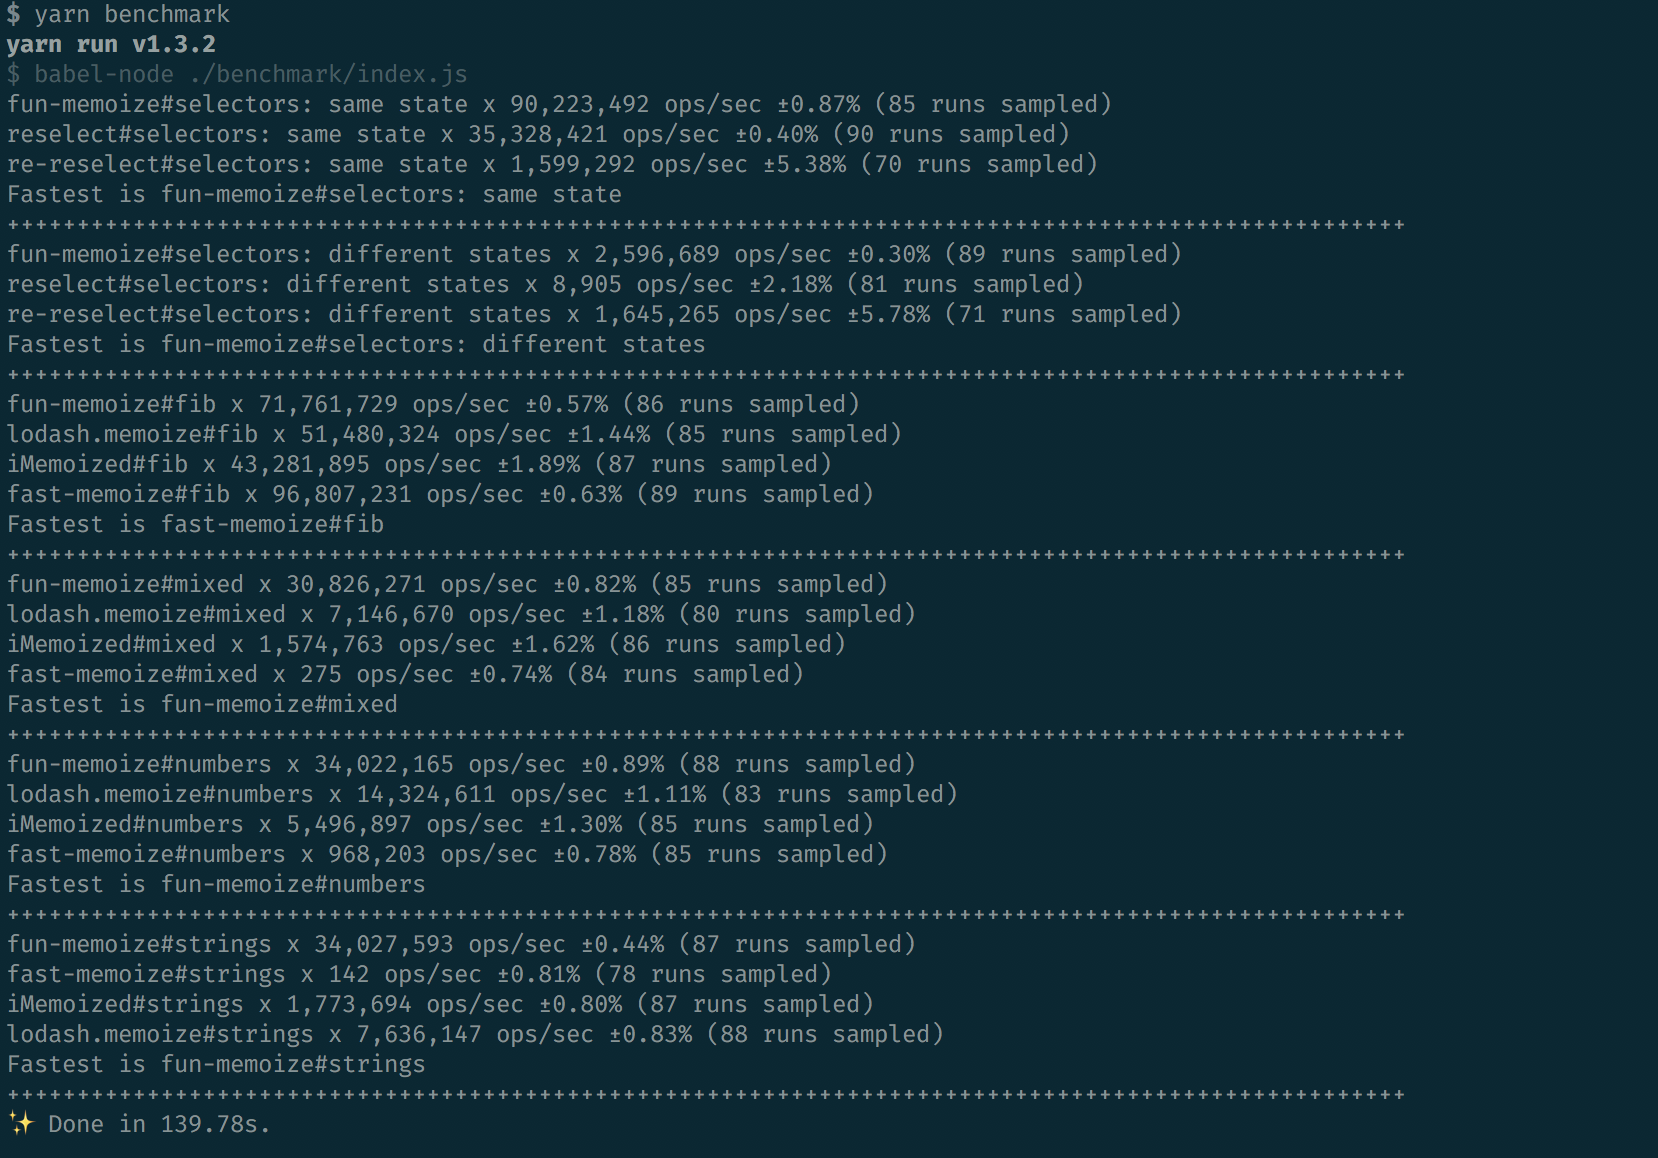
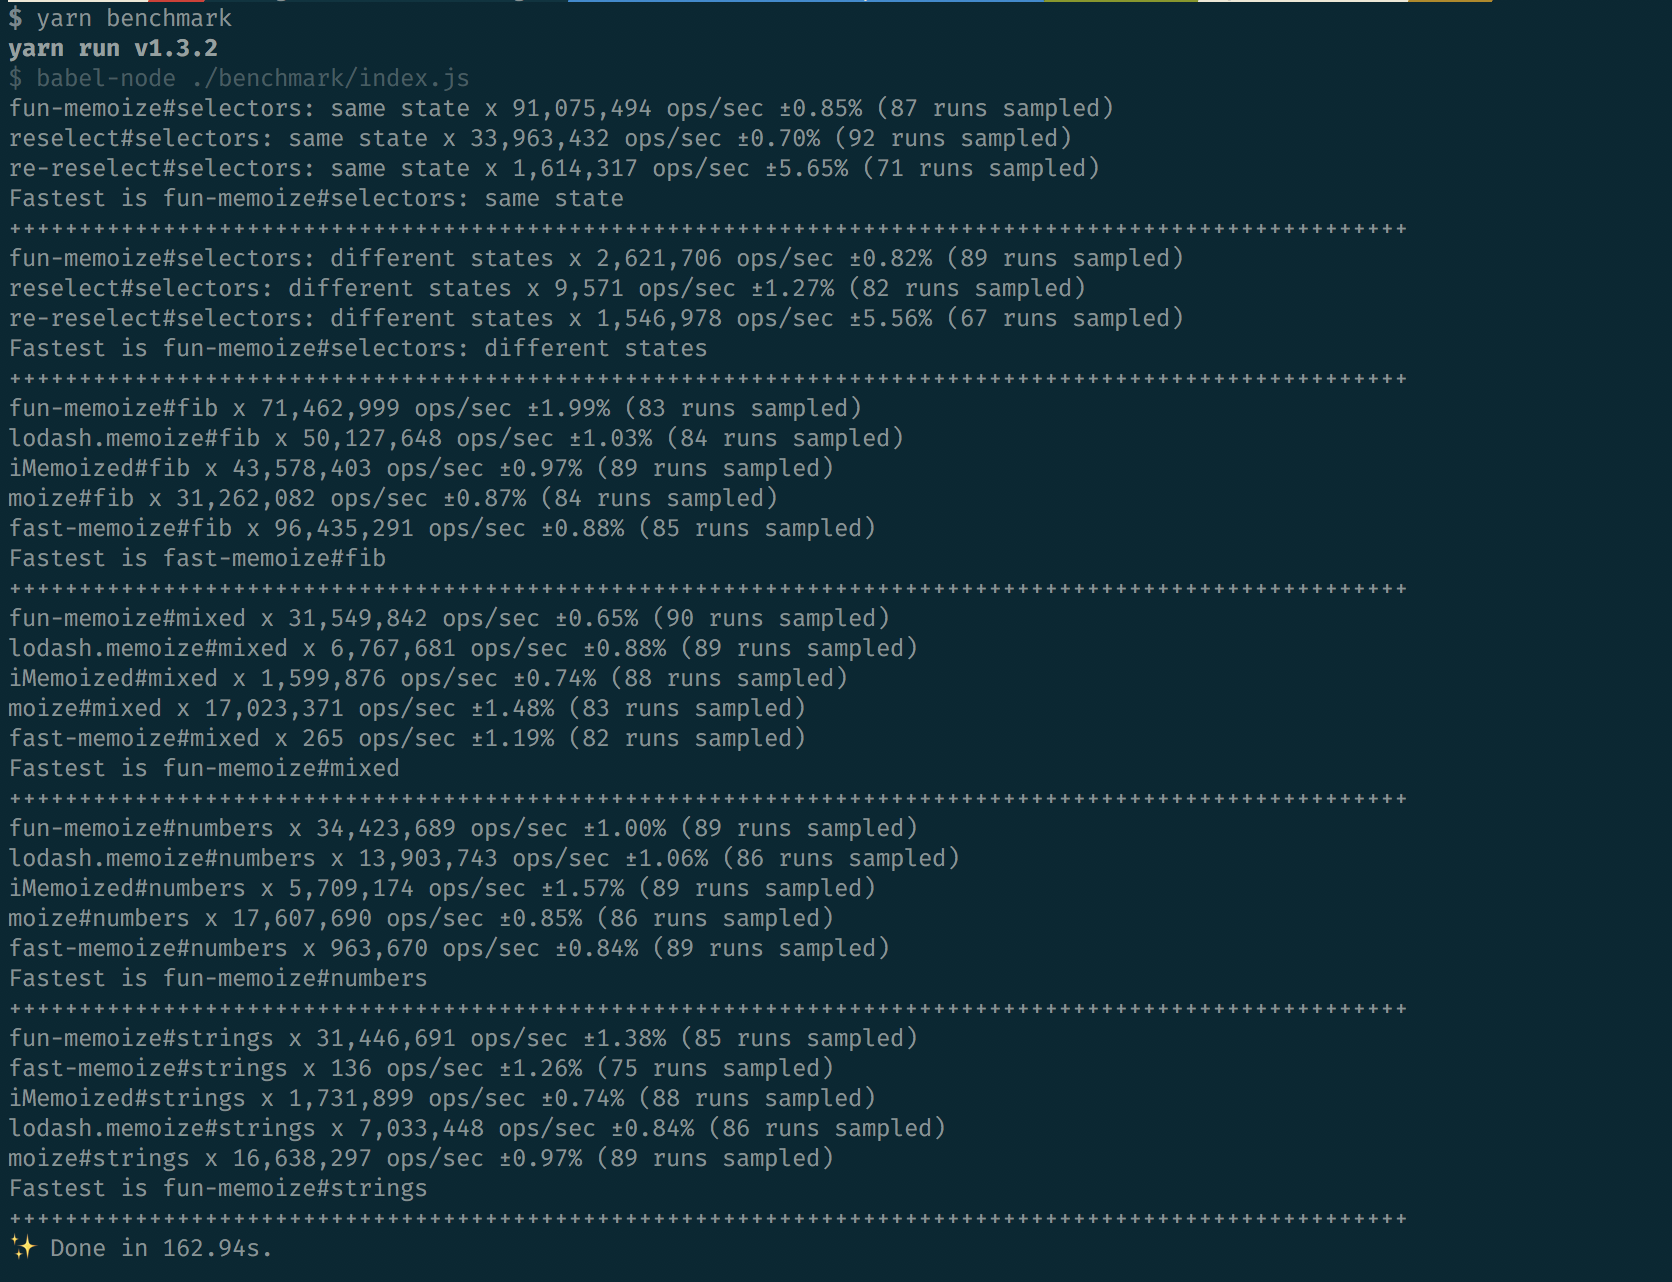
Updated benchmarks + lock files + little performance improvement + updated readme

diff --git a/benchmark/index.js b/benchmark/index.js
@@ -2,6 +2,7 @@
 
 // TODO: add more libraries
 import Benchmark from 'benchmark';
+import memoizeMoize from 'moize';
 import { createSelector } from 'reselect';
 import fastMemoize from 'fast-memoize';
 import memoizeLodash from 'lodash.memoize';
@@ -17,7 +18,7 @@ const strC = strA + strB;
 
 const stringsFunc = (a: string, b: string, c: string): number => {
   let res = 0;
-  for (let i = 0; i < a.length + b.length + c.length / 10; i++)
+  for (let i = 0; i < (a.length + b.length + c.length) / 10; i++)
     res += 5;
   return res;
 };
@@ -44,21 +45,25 @@ const memoizedStringsFunMemoize = memoize(stringsFunc);
 const memoizedStringsI = imemoized.memoize(stringsFunc);
 const memoizedStringsFast = fastMemoize(stringsFunc);
 const memoizedStringsLodash = memoizeLodash(stringsFunc);
+const memoizedStringsMoize = memoizeMoize(stringsFunc);
 
 const memoizedFibFunMemoize = memoize(fibonacci);
 const memoizedFibI = imemoized.memoize(fibonacci);
 const memoizedFibFast = fastMemoize(fibonacci);
 const memoizedFibLodash = memoizeLodash(fibonacci);
+const memoizedFibMoize = memoizeMoize(fibonacci);
 
 const memoizedNumbersFunMemoize = memoize(numberFunc);
 const memoizedNumbersI = imemoized.memoize(numberFunc);
 const memoizedFNumbers = fastMemoize(numberFunc);
 const memoizedNumbersLodash = memoizeLodash(numberFunc);
+const memoizedNumbersMoize = memoizeMoize(numberFunc);
 
 const memoizedMixedFunMemoize = memoize(mixedFunc);
 const memoizedMixedI = imemoized.memoize(mixedFunc);
 const memoizedMixedFast = fastMemoize(mixedFunc);
 const memoizedMixedLodash = memoizeLodash(mixedFunc);
+const memoizedMixedMoize = memoizeMoize(mixedFunc);
 
 const selectA = obj => obj.a;
 
@@ -99,15 +104,23 @@ const stateGen1 = stateGen();
 
 const stateGen2 = stateGen();
 
+const stateGen3 = stateGen();
+
 suites[0]
   .add(
     'fun-memoize#strings', () => memoizedStringsFunMemoize(strA, strB, strC),
-  ).add(
+  )
+  .add(
     'fast-memoize#strings', () => memoizedStringsFast(strA, strB, strC),
-  ).add(
+  )
+  .add(
     'iMemoized#strings', () => memoizedStringsI(strA, strB, strC),
-  ).add(
+  )
+  .add(
     'lodash.memoize#strings', () => memoizedStringsLodash(strA, strB, strC),
+  )
+  .add(
+    'moize#strings', () => memoizedStringsMoize(strA, strB, strC),
   );
 suites[1]
   .add(
@@ -118,6 +131,9 @@ suites[1]
   )
   .add(
     'iMemoized#numbers', () => memoizedNumbersI(5, 100, 2),
+  )
+  .add(
+    'moize#numbers', () => memoizedNumbersMoize(5, 100, 2),
   )
   .add(
     'fast-memoize#numbers', () => memoizedFNumbers(5, 100, 2),
@@ -133,6 +149,9 @@ suites[2]
     'iMemoized#mixed', () => memoizedMixedI(strA, 0.0025, o),
   )
   .add(
+    'moize#mixed', () => memoizedMixedMoize(strA, 0.0025, o),
+  )
+  .add(
     'fast-memoize#mixed', () => memoizedMixedFast(strA, 0.0025, o),
   );
 suites[3]
@@ -144,6 +163,9 @@ suites[3]
   )
   .add(
     'iMemoized#fib', () => memoizedFibI(15),
+  )
+  .add(
+    'moize#fib', () => memoizedFibMoize(15),
   )
   .add(
     'fast-memoize#fib', () => memoizedFibFast(15),
@@ -158,7 +180,7 @@ suites[4]
       memoizedStateSelectorReselect(stateGen2.next().value),
   )
   .add(
-    're-reselect#selectors: different states', () => memoizedStateSelectorReReselect(strA, strB, strC),
+    're-reselect#selectors: different states', () => memoizedStateSelectorReReselect(stateGen3.next().value),
   );
 suites[5]
   .add(

diff --git a/src/index.js b/src/index.js
@@ -261,7 +261,6 @@ export default function memoize<A, R>(
 
   /* eslint-disable prefer-rest-params */
   const resultFunction = checkLast ? function cachedFunction(): R {
-    const { length: argsLength } = arguments;
     let { length: i } = arguments;
     if (i === lastArgs.length)
       if (i === 1) {
@@ -270,6 +269,7 @@ export default function memoize<A, R>(
         while (i-- && arguments[i] === lastArgs[i]);
         if (i === -1 && lastCache !== NO_VALUE) return lastCache;
       }
+    const { length: argsLength } = arguments;
     let res = void 0;
     // Check arguments length to prevent calling function with various arguments count
     if (argsLength === length) {

diff --git a/README.md b/README.md
@@ -8,7 +8,7 @@ __Have fun! 😏__
 
 Memoization module based on [Map](https://developer.mozilla.org/en-US/docs/Web/JavaScript/Reference/Global_Objects/Map) and [WeakMap](https://developer.mozilla.org/en-US/docs/Web/JavaScript/Reference/Global_Objects/WeakMap) for modern JavaScript applications.
 
-Provide fast enough memoization with O(1) complexity to retrieve cache and only __strict__ (===) equality check (no custom) for functions with __fixed arguments length__.
+Provides fast enough memoization with O(1) complexity to retrieve cache and only __strict__ (===) equality check (no custom) for functions with __fixed arguments length__.
 
 ## Installation
 
@@ -102,7 +102,7 @@ ___checkLast___ - firstly check last arguments passed to function and if they eq
 
 __createObjectSelector__ - (...selectorFuncs | selectorFuncs[], calculateFunc, ?options: { storageCount: number(default - __1000__), checkLast: boolean(default - __true__) }) - check [reselect](https://github.com/reactjs/reselect#createselectorinputselectors--inputselectors-resultfunc)
 
-All object's caches (Object | Function) are stored in [WeakMaps](https://developer.mozilla.org/en-US/docs/Web/JavaScript/Reference/Global_Objects/WeakMap). When object wont be referenced and will be collected by [GC](https://developer.mozilla.org/en-US/docs/Web/JavaScript/Memory_Management), its cache subtree will be collected too [except primitive value storages, which might be referenced, they will be removed later when primitive arguments cache nodes count will rise up to specified storage count].
+All object's caches (Object | Function) are stored in [WeakMaps](https://developer.mozilla.org/en-US/docs/Web/JavaScript/Reference/Global_Objects/WeakMap). When object wont be referenced and will be collected by [GC](https://developer.mozilla.org/etin-US/docs/Web/JavaScript/Memory_Management), its cache subtree will be collected too [except primitive value storages, which might be referenced, they will be removed later when primitive arguments cache nodes count will rise up to specified storage count].
 
  When primitive arguments (boolean | string | number | Symbol | null | void) storage count will be reached, first sub-caching-node will be removed ([Queue](https://en.wikipedia.org/wiki/Queue_(abstract_data_type)) order, also known as [FIFO](https://en.wikipedia.org/wiki/FIFO_(computing_and_electronics))). Let's look at example.
 
